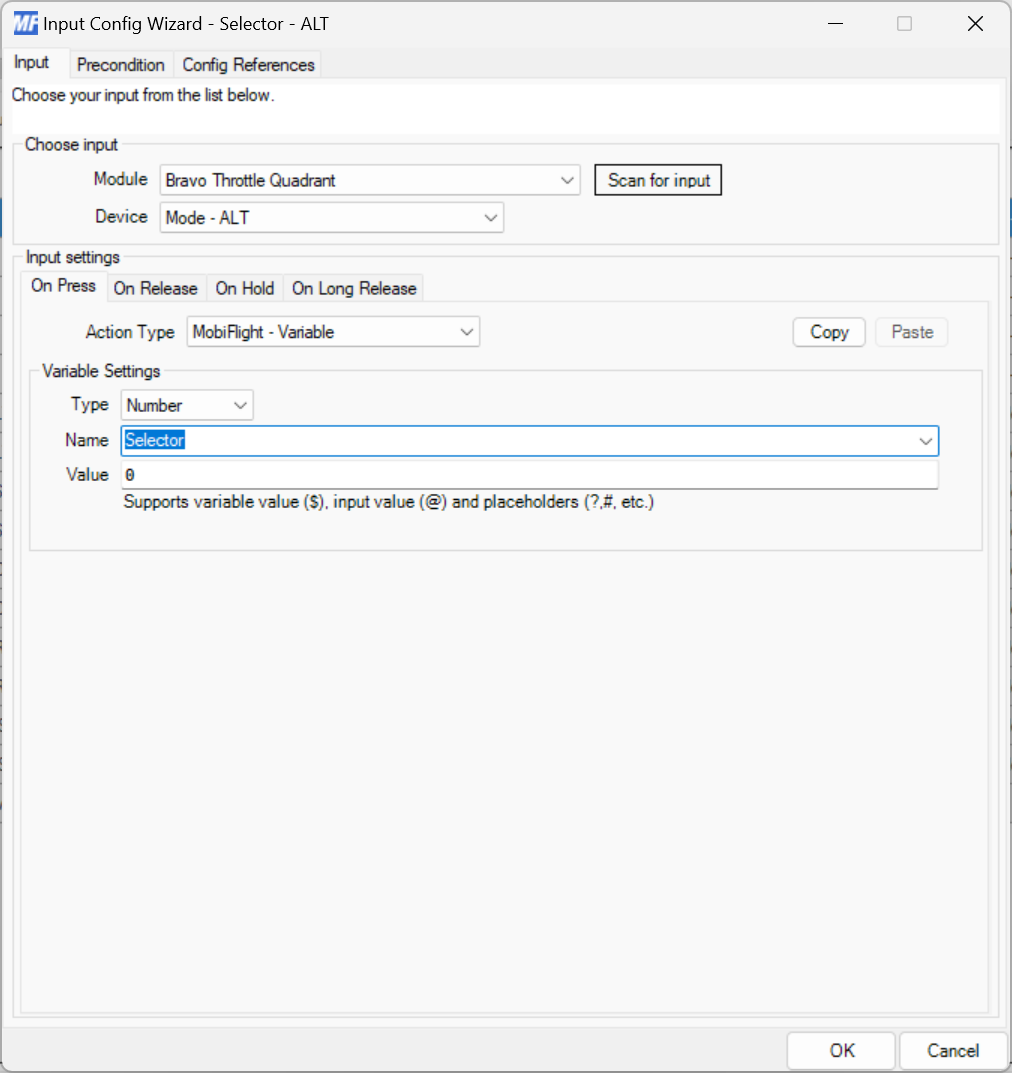
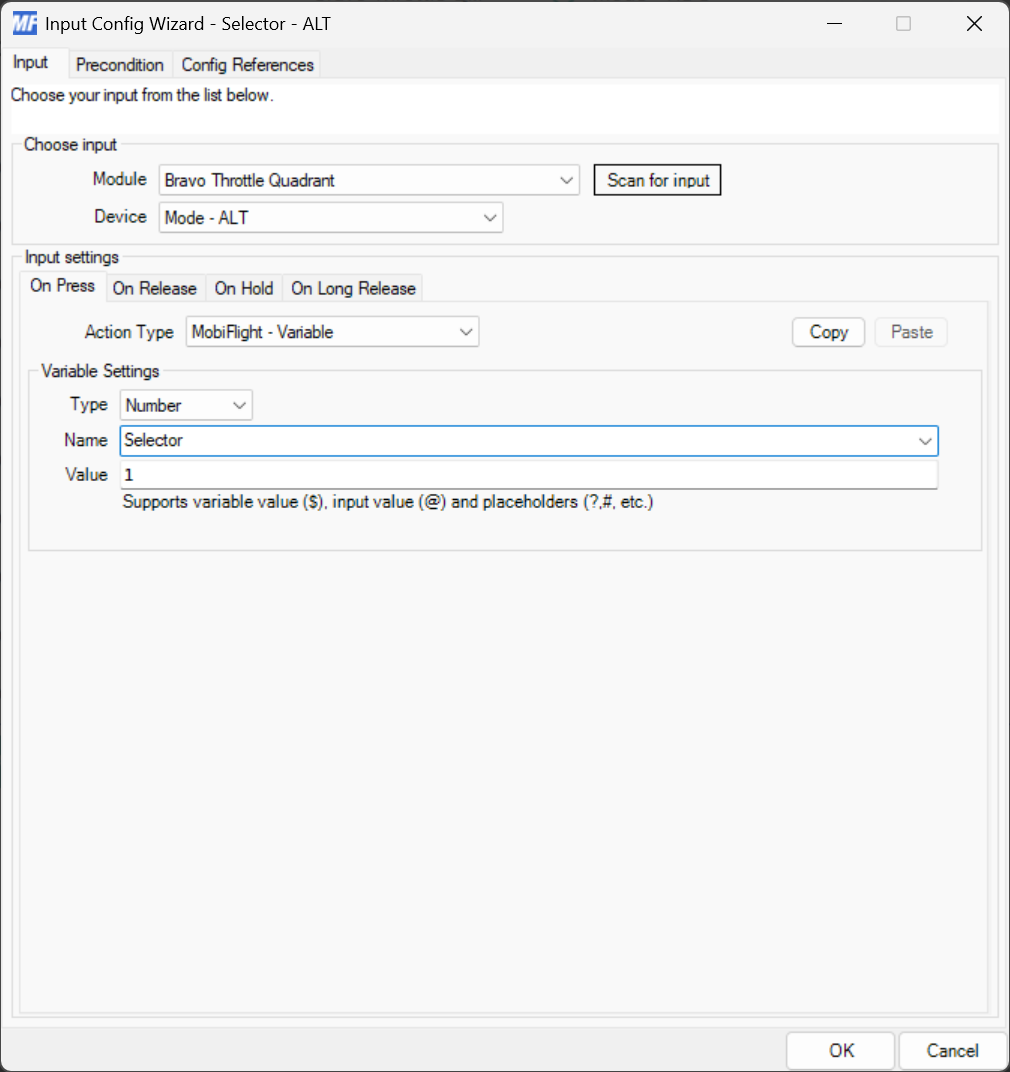
Migrate honeycomb bravo selector knob wiki Fixes #499

diff --git a/content/guides/honeycomb-bravo-selector-knob/_index.md b/content/guides/honeycomb-bravo-selector-knob/_index.md
@@ -39,6 +39,8 @@ Repeat step 1 four more times, updating the name to and device to reflect the sw
 
 Your input config tab should look like this:
 
+{{< screenshot image="main-window-selector-knob-configs.png" title="Screenshot of the main MobiFlight window with the selector knob configs added." >}}
+
 ### Create an input config for a left turn of the right knob when ALT mode is active
 
 Start by adding the precondition:
@@ -61,9 +63,12 @@ Then add the input device:
 4. Configure the `On Press` event to do whatever event you want
 5. Save the config
 
-The input tab should look like this, with whatever action type configured you decide to use:
+The input tab should look like this:
 
 {{< screenshot image="alt-device-assignment.png" title="Screenshot of the device tab for the right knob - ALT decrement input config." >}}
+
+> [!TIP]
+> The above example illustrates mapping the ALT decrement action to the Cessna CJ4 autopilot ALT decrement event in Microsoft Flight Simulator 2024. When building your own profile, adjust the selected event to match the appropriate one for your aircraft.
 
 ### Create an input config for a right turn of the right knob when ALT mode is active
 
@@ -75,16 +80,18 @@ Repeat everything in step 3 and 4 except when configuring the precondition use t
 
 When you are done your input config tab should look like this:
 
+{{< screenshot image="all-configs.png" title="Screenshot of the main MobiFlight window with all the input configs created." >}}
+
 ### Create an output config for the selector (optional)
 
 To assist with debugging it can be helpful to have an output config that references the `Selector` variable. To do this create an output config that looks like this:
 
-There's no need to actually display it on any output device: this basic output config will show the value in the main Mobiflight window:
+{{< screenshot image="output-config.png" title="Screenshot of an output config set up to display the value of the selector knob variable." >}}
 
-### Use the config with your flight simulator
+There's no need to actually display it on any output device. This basic output config will show the value in the main Mobiflight window:
 
-After `Run` mode is enabled in MobiFlight **you will need to rotate the left knob one position**. There is no way for MobiFlight to know what position the left knob is in when you start so moving it once will ensure MobiFlight knows where it is set.
+{{< screenshot image="main-window-output-config.png" title="Screenshot showing the main MobiFlight window with the selector output configuration highlighted and showing a current value of 1." >}}
 
-From there you can see in the input config list which configuration is active. All disabled configs will have a red `!` next to them, while the two active configs won't. Here's an example of what the input config list looks like when the left knob was turned to the `HDG` position;
+MobiFlight also indicates which of the input configs are inactive by showing a purple `!` icon next to configs that are disabled by the precondition value. In the above screenshot, the `VS` inputs are active and the rest are disabled.
 
 {{% /steps %}}